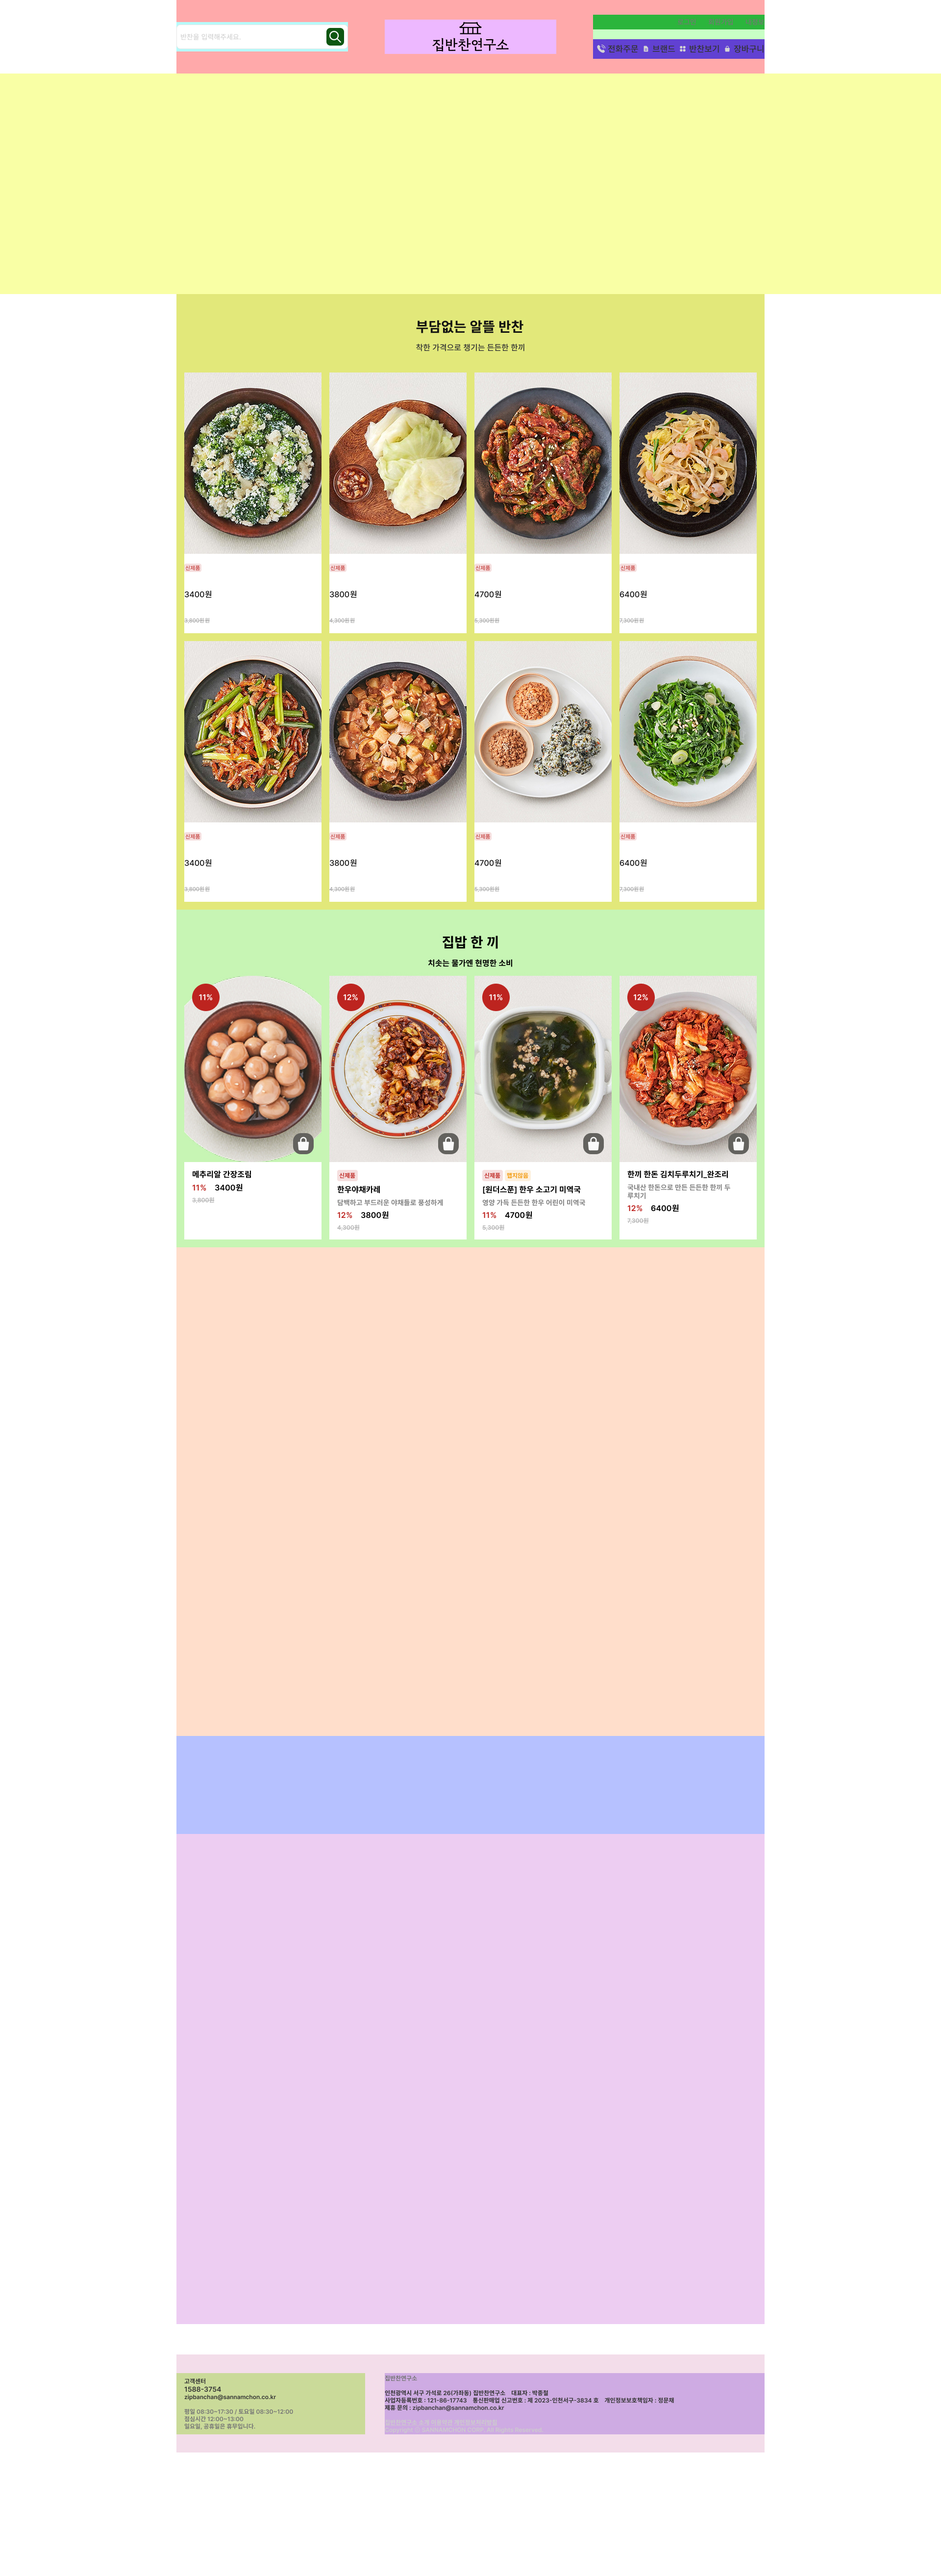
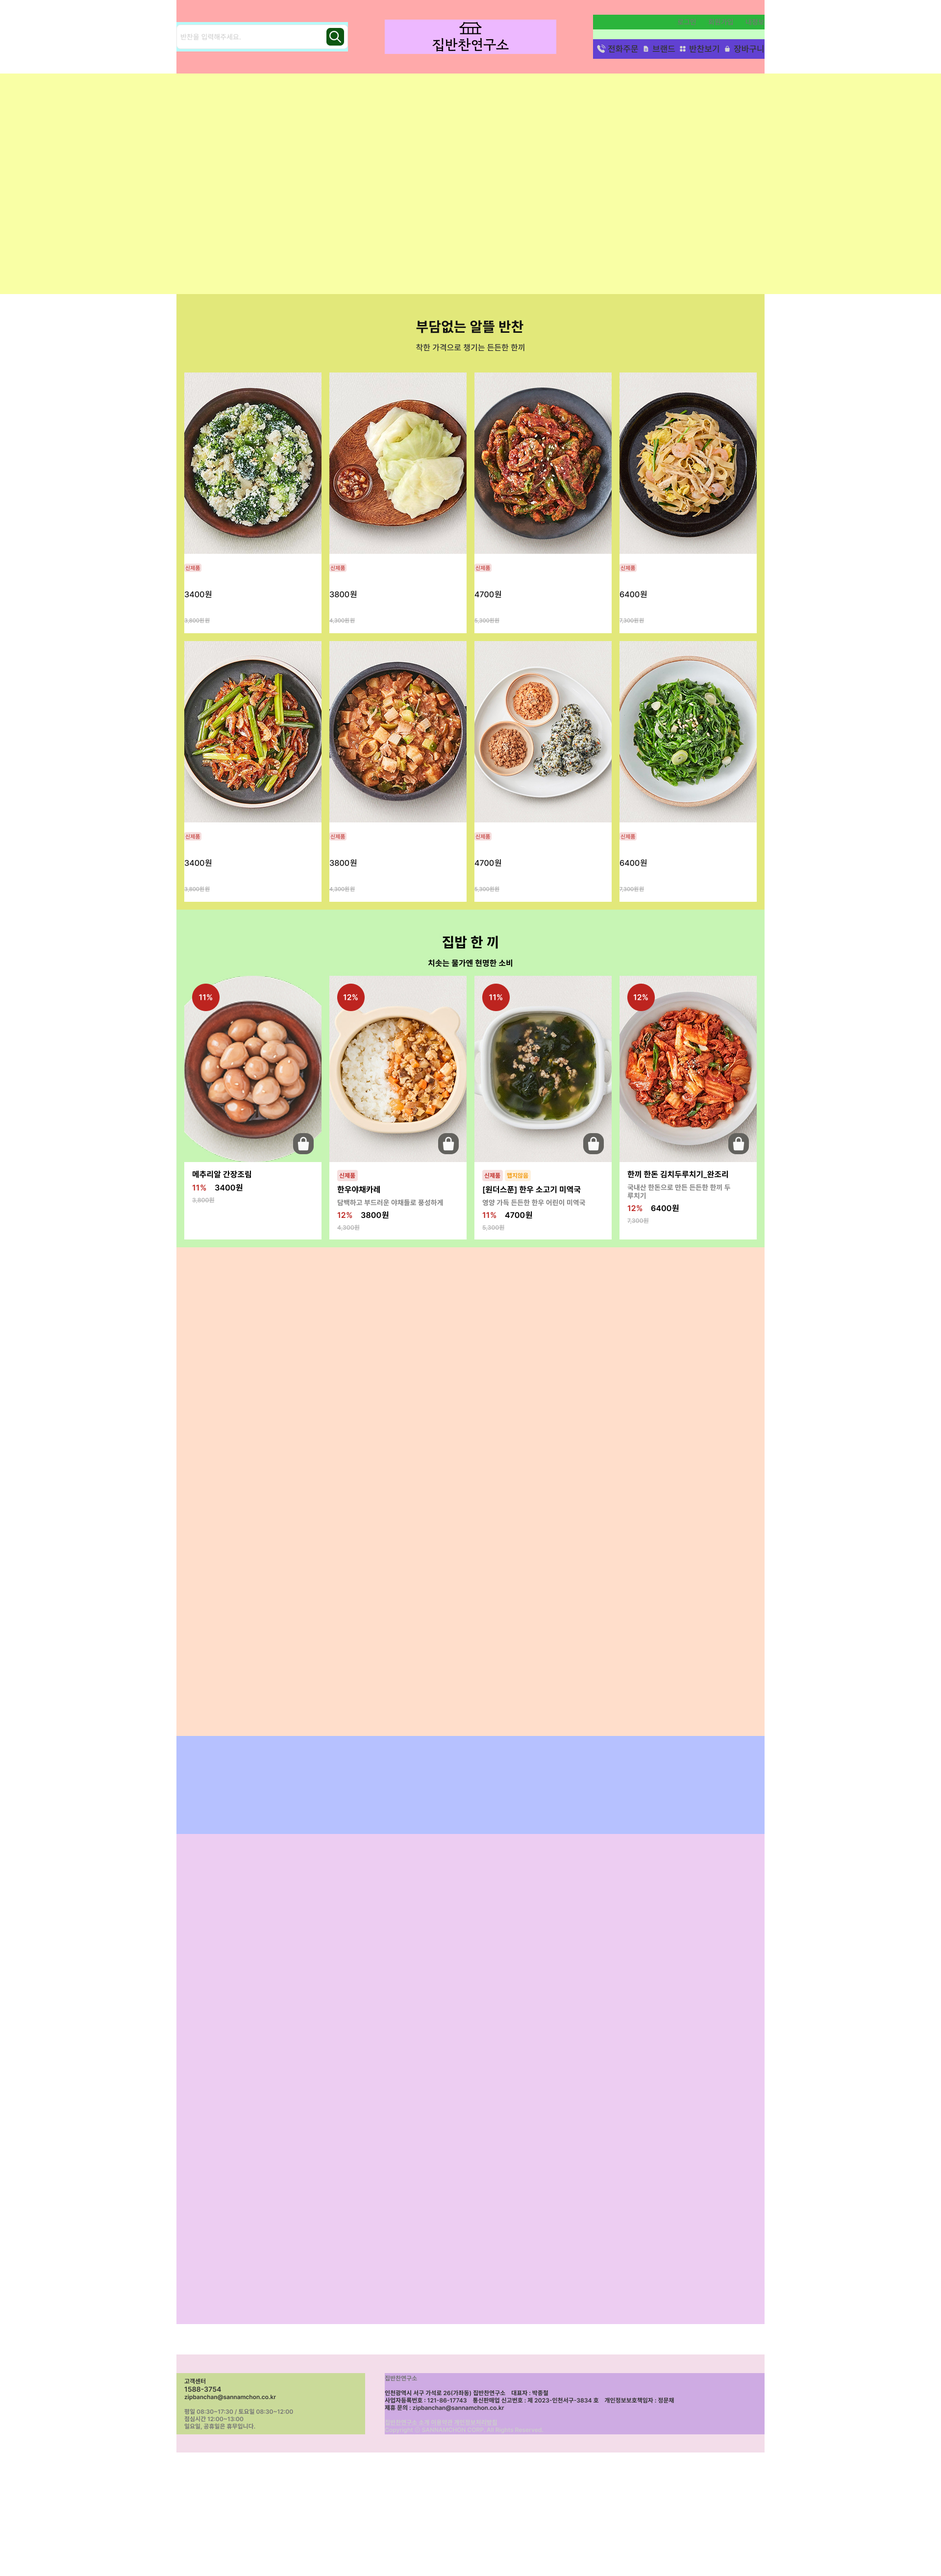
Add files via upload

Changed region(s): [[0.3438, 0.3744, 0.5, 0.4368]]

diff --git a/32_shopmall/index.html b/32_shopmall/index.html
@@ -142,7 +142,118 @@
         </div>
       </div>
       <!-- 정기적 반찬 -->
-      <div class="day-banchan"></div>
+      <div class="day-banchan">
+        <div class="tit">
+          <h2>집밥 한 끼</h2>
+          <p>치솟는 물가엔 현명한 소비</p>
+        </div>
+        <div class="product">
+          <div class="card">
+            <!-- 이미지 박스 -->
+            <div class="imgbox">
+              <img
+                class="photo"
+                src="./images/home/imgi_113_2442_ZIP_P_4111_T_2.jpg"
+                alt="메추리알조림"
+              />
+              <span class="sale"
+                ><img src="./images/icons/percent.png" alt="11%할인"
+              /></span>
+              <span class="lock"
+                ><img src="./images/icons/lock.png" alt="보호" />
+              </span>
+            </div>
+            <!-- 정보 박스 -->
+            <div class="info">
+              <h3>메추리알 간장조림</h3>
+              <h4><span class="discount">11%</span> 3,400원</h4>
+              <span class="price">3,800원</span>
+            </div>
+          </div>
+
+          <div class="card">
+            <div class="card">
+              <!-- 이미지 박스 -->
+              <div class="imgbox">
+                <img
+                  class="photo"
+                  src="./images/home/imgi_215_ZIP_P_8068_T.jpg"
+                  alt="한우야채카레"
+                />
+                <span class="sale"
+                  ><img src="./images/icons/sale2.png" alt="12%할인"
+                /></span>
+                <span class="lock"
+                  ><img src="./images/icons/lock.png" alt="보호" />
+                </span>
+              </div>
+              <!-- 정보 박스 -->
+              <div class="info">
+                <span class="new">신제품</span>
+                <!-- <span class="spicy">맵지않음</span> -->
+                <h3>한우야채카레</h3>
+                <p>담백하고 부드러운 야채들로 풍성하게</p>
+                <h4><span class="discount">12%</span> 3,800원</h4>
+                <span class="price">4,300원</span>
+              </div>
+            </div>
+          </div>
+          <div class="card">
+            <div class="card">
+              <!-- 이미지 박스 -->
+              <div class="imgbox">
+                <img
+                  class="photo"
+                  src="./images/home/imgi_213_ZIP_P_8078_T.jpg"
+                  alt="한우소고기미역국"
+                />
+                <span class="sale"
+                  ><img src="./images/icons/percent.png" alt="11%할인"
+                /></span>
+                <span class="lock"
+                  ><img src="./images/icons/lock.png" alt="보호" />
+                </span>
+              </div>
+              <!-- 정보 박스 -->
+              <div class="info">
+                <span class="new">신제품</span>
+                <span class="spicy">맵지않음</span>
+                <h3>[원더스픈] 한우 소고기 미역국</h3>
+                <p>영양 가득 든든한 한우 어린이 미역국</p>
+                <h4><span class="discount">11%</span> 4,700원</h4>
+                <span class="price">5,300원</span>
+              </div>
+            </div>
+          </div>
+          <div class="card">
+            <div class="card">
+              <!-- 이미지 박스 -->
+              <div class="imgbox">
+                <img
+                  class="photo"
+                  src="./images/home/imgi_149_1356_ZIP_P_0102_T.jpg"
+                  alt="한돈 김치두루치기"
+                />
+                <span class="sale"
+                  ><img src="./images/icons/sale2.png" alt="12%할인"
+                /></span>
+                <span class="lock"
+                  ><img src="./images/icons/lock.png" alt="보호" />
+                </span>
+              </div>
+              <!-- 정보 박스 -->
+              <div class="info">
+                <!-- <span class="new">신제품</span> -->
+                <!-- <span class="spicy">맵지않음</span> -->
+                <h3>한끼 한돈 김치두루치기_완조리</h3>
+                <p>국내산 한돈으로 만든 든든한 한끼 두루치기</p>
+                <h4><span class="discount">12%</span> 6,400원</h4>
+                <span class="price">7,300원</span>
+              </div>
+            </div>
+          </div>
+        </div>
+      </div>
       <!-- 신제품 반찬 -->
       <div class="new-banchan"></div>
       <!-- 배너 영역 -->

diff --git a/32_shopmall/css/style.css b/32_shopmall/css/style.css
@@ -208,12 +208,102 @@ main .banchan .product .card .info .price {
   /* 취소선 */
   text-decoration: line-through;
 }
-
+/* 한끼 집밥 */
 main .day-banchan {
   width: 100%;
-  height: 600px;
-  border: 5px solid blue;
+  padding: 50px 16px 16px;
 }
+main .day-banchan .tit {
+  text-align: center;
+}
+main .day-banchan .tit h2 {
+  font-size: 28px;
+  font-weight: 600;
+  color: #333333;
+  margin-bottom: 16px;
+}
+main .day-banchan .tit p {
+  font-size: 16px;
+  font-weight: 600;
+  color: #827c77;
+  margin-bottom: 16px;
+}
+main .day-banchan .product {
+  width: 1168px;
+  display: flex;
+  gap: 16px;
+}
+main .day-banchan .product .card {
+  width: 280px;
+  height: 538px;
+}
+main .day-banchan .product .card .imgbox {
+  width: 100%;
+  height: 380px;
+  position: relative;
+}
+main .day-banchan .product .card .imgbox .photo {
+  width: 100%;
+  height: 100%;
+}
+main .day-banchan .product .card .imgbox .sale {
+  position: absolute;
+  left: 16px;
+  top: 16px;
+}
+main .day-banchan .product .card .imgbox .lock {
+  position: absolute;
+  right: 16px;
+  bottom: 16px;
+}
+main .day-banchan .product .card .info {
+  padding: 16px;
+}
+main .day-banchan .product .card .info .new {
+  font-size: 12px;
+  font-weight: 600;
+  color: #bd2420;
+  background: #eec6c6;
+  padding: 4px;
+  border-radius: 4px;
+}
+main .day-banchan .product .card .info .spicy {
+  font-size: 12px;
+  font-weight: 600;
+  color: #ba7e20;
+  background: #f5af40;
+  padding: 4px;
+  border-radius: 4px;
+}
+main .day-banchan .product .card .info h3 {
+  font-size: 16px;
+  font-weight: 600;
+  color: #333333;
+  margin-top: 8px;
+}
+main .day-banchan .product .card .info p {
+  font-size: 14px;
+  font-weight: 600;
+  color: #838383;
+  margin-top: 8px;
+}
+main .day-banchan .product .card .info h4 {
+  font-size: 16px;
+  font-weight: 600;
+  color: #333333;
+  margin-top: 8px;
+}
+main .day-banchan .product .card .info h4 .discount {
+  color: #bd2420;
+}
+main .day-banchan .product .card .info .price {
+  font-size: 12px;
+  font-weight: 600;
+  color: #bababa;
+  text-decoration: line-through;
+  margin-top: 8px;
+}
+
 main .new-banchan {
   width: 100%;
   height: 1000px;
